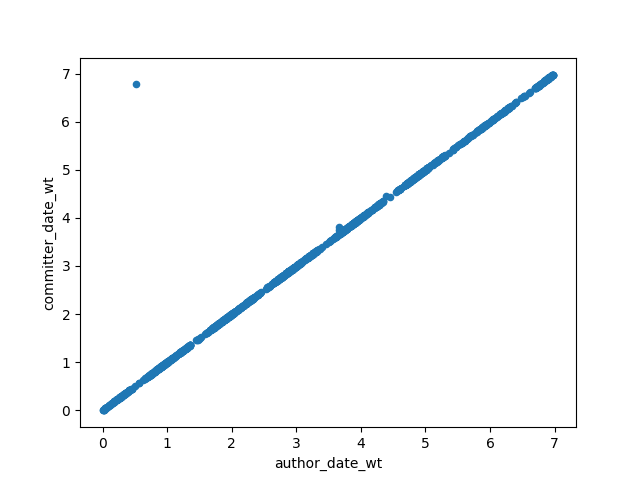
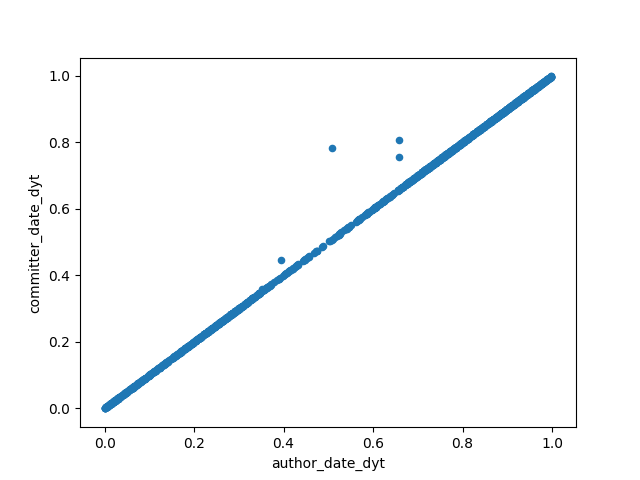
adjusted_polar_image

diff --git a/clemme/graphs.py b/clemme/graphs.py
@@ -24,12 +24,12 @@ try:
     db = client['smartshark_test']
     commits = db['commit']
     df = pd.DataFrame(list(commits.find()))
-    df['author_date_wt'] = df['author_date'].apply(dt_to_wt)
+    df['author_date_dyt'] = df['author_date'].apply(dt_to_dyt)
     df['committer_date_wt'] = df['committer_date'].apply(dt_to_wt)
     df['committer_date_dyt'] = df['committer_date'].apply(dt_to_dyt)
     print("done loading data")
 
-    df.plot(kind='scatter', x='author_date_wt', y='committer_date_wt')  
+    df.plot(kind='scatter', x='author_date_dyt', y='committer_date_dyt')  
     plt.savefig("authordate_vs_commitdate.png")
     plt.clf()
 
@@ -50,10 +50,11 @@ try:
     fig = plt.figure(figsize=(8,8))
     ax = fig.add_axes([0.1, 0.1, 0.8, 0.8], polar=True)
     N = 100
-    theta = np.arange(0.0, 2*np.pi, 2*np.pi/N)
+    theta = np.arange(2*np.pi, 0, -2*np.pi/N)
     values = [len([t for t in daytimelist if (n/N<= t <(n+1)/N)]) for n in range(0,N)]
     width = 2*np.pi/N
     bars = ax.bar(theta, values, width=width, bottom=0.0)
+    ax.set_xticks([0])
     fig.savefig("dayperiod_polar.png")
 finally:
     client.close()
